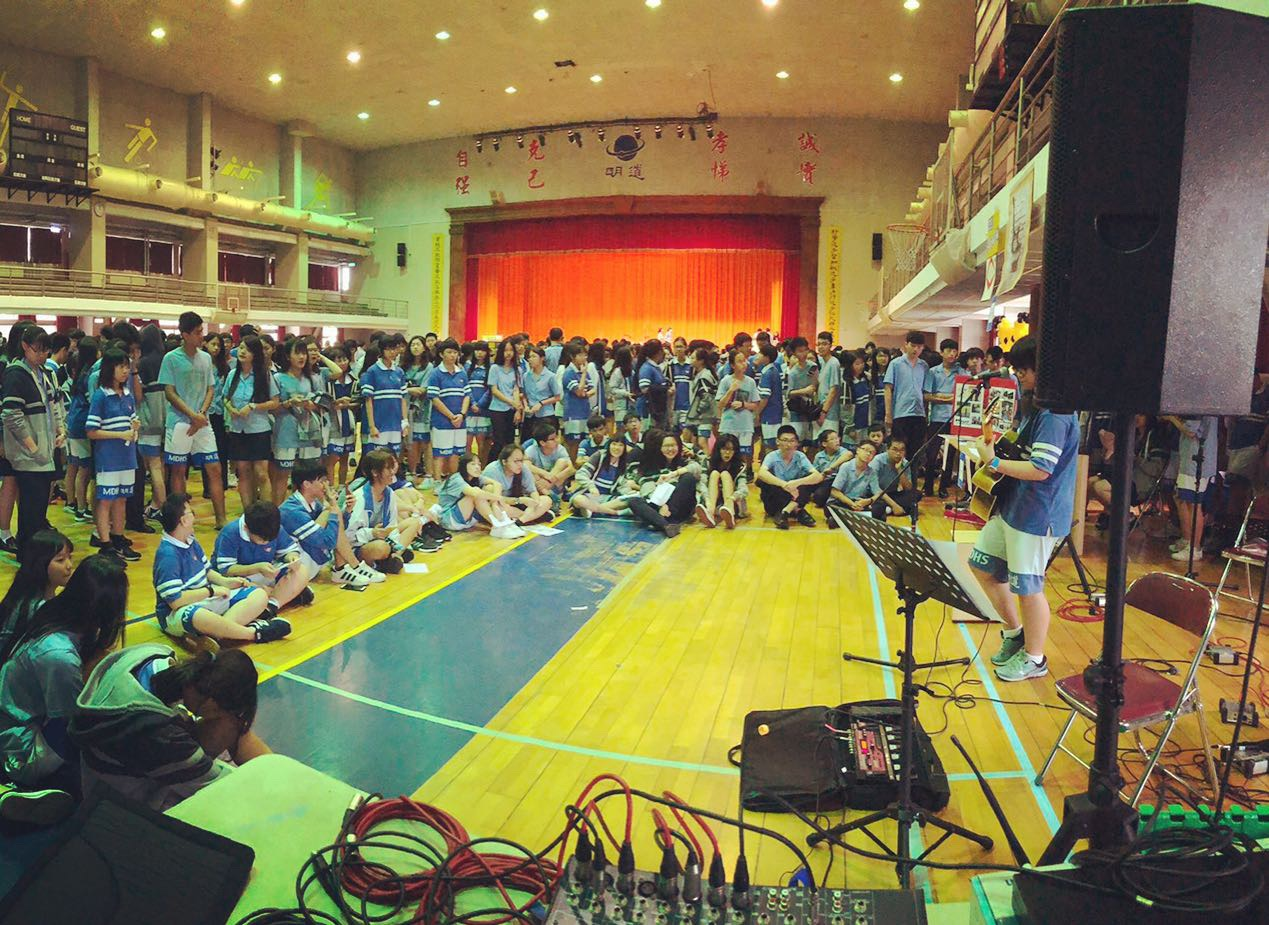
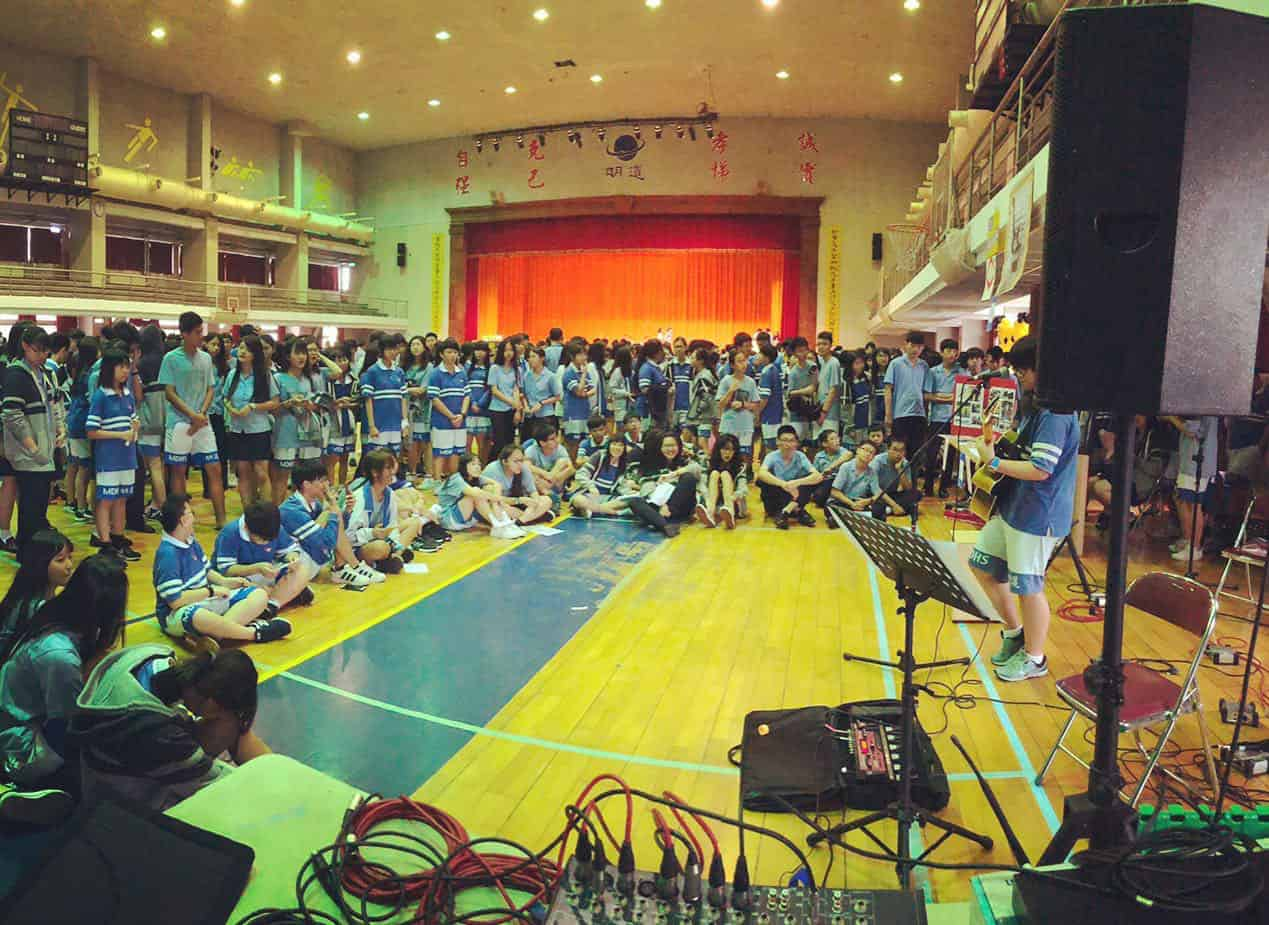
照片壓縮

diff --git a/before.html b/before.html
@@ -31,21 +31,21 @@
               <h3>經歷</h3>
           <section>
                 <p>從高一開始就擔任吉他社的教學，一個人要帶12個國中的初學者，剛開始教學的時候他們的反應都冷冷的，讓我更緊張，每次上完課我的背都全濕，講話也沒有自信、不肯定，但漸漸的熟絡起來後，上課氣氛也變的輕鬆，出席率也變的穩定。</p>
-                <img src="IMG_6875.JPG" class="img-fluid" style="display:block; margin:auto;"/>
+                <img src="IMG_6875.JPG" class="img-fluid" width="60%" height="60%" alt="我的照片" style="display:block; margin:auto;"/>
                 <p> 高二時我接下了社長的位子，全盛時期總共有113位社員，是吉他社的鼎盛時期，在擔任社長的期間，我培養了溝通技巧和組織的能力，每次開會遇到癥結點時，我總會收集其他幹部的想法並統整分析，找到一個最佳的解決方法，在爭執時，如果我是對的一方，我也會積極維護我的想法，我始終相信熱烈的爭辯，不信無聲的和諧。在社團期間也參與許多次演出，我不僅是表演者也是工作人員，不僅是總召還是機動組組頭，整場演出都在跑來跑去，忙東忙西，因此都沒有機會好好欣賞其他人的演出。</p>
-                <img src="AA4DE215-363E-481D-B7A0-54FCE5D4FA8C.JPG" class="img-fluid" style="display:block; margin:auto;"/>
+                <img src="AA4DE215-363E-481D-B7A0-54FCE5D4FA8C.jpg" class="img-fluid" width="60%" height="60%" alt="我的照片" style="display:block; margin:auto;"/>
                 <p>在當社長的同時，我接下了班際英文話劇比賽的導演一職，那讓我雙頭燒的蠟燭燃燒的更旺，且在過程中與班上也因為劇本和選角有不小的爭執，但有了這次當導演的經驗，讓我在之後的影片製作執行上更為順利。</p>
-                <img src="IMG_3437.jpg" class="img-fluid" style="display:block; margin:auto;"/>
+                <img src="IMG_3437.jpg" class="img-fluid" width="60%" height="60%" alt="我的照片" style="display:block; margin:auto;"/>
                 <p> 我是一個熱愛舞台的人，曾經一年在校內外接了18場大大小小的表演，不過表演的時間也常常撞到補習時間，因此與家人常常會因為該不該接這場表演而吵架，但我在表演結束後都有去將缺的課補齊。其中有一場表演讓我十分灰心，因為控台的一些疏失，還有我自己的一點失誤，表演結束後收到很多負評，那段時間本來打算後面的表演都不接了，轉變的契機是我無意間看到了一場表演，那個樂團的主唱在台上十分的享受，重點是看起來非常的開心，他喚起了我的初衷，上台不是為了名利，而是在充分準備的前提下，展現在音樂中最開心的那個自己。</p>
-                <img src="E223349C-0805-4C8A-8E13-CF2B8371618B.JPG" class="img-fluid" style="display:block; margin:auto;"/>
+                <img src="E223349C-0805-4C8A-8E13-CF2B8371618B.jpg" class="img-fluid" width="40%" height="40%" alt="我的照片" style="display:block; margin:auto;"/>
                 <p>錄音工程在我生活中也佔了很大的一個部分，國中開始自學，這一路上也遇到了很多的貴人，不求回報的教導我，給我練習的機會，第一個教我錄音混音的就是我現在工作室的老闆，後來他也將我介紹給他的老師，讓我有機會去更大更有規模的錄音室觀摩實習，近期也感謝櫻花原創音樂團隊合作的錄音室的老闆放心把錄音室交給我們自己操作，讓我完整體驗到一個錄音師工作一整天下來有多號精神與體力。</p>
                 <p> 還記得我的第一套簡易錄音設備是我省著早餐錢，一點一滴的存下來的，剛開始我學習和成長的十分緩慢，直到去年的畢業季，加上之後的疫情期間，因為錄音設備的更新，我希望自己不要成為設備用的非常好，能力卻跟不上設備等級的人，也因為我很不喜歡腦中有許多畫面想法，但卻因為自己的技術問題而無法呈現出來，因此我努力精進自己的功力，透過在那段期間我跟著團隊總製作做案子，還有自己的練習，我的能力比前幾年突飛猛進，但離老師們還是有很大一段距離，還要再接再力。暑假期間，我的團隊每年都會辦大合唱，但因為去年疫情大家沒法相聚，我們變用線上的方式，大家自己在家裡用手機錄製，再藉由製作團隊來處理，我平均一天要做8個小時的人聲處理，扎扎實實的訓練了一個月，讓我人聲處理的速度變快了許多。</p>
                 <p>在能力比較穩定成長後，我透過工作室的老闆開始接一些學校或者簡單的案子，直到現在我已經是能獨當一面的錄音師，但混音還是需要老師的指點。</p>
-                <img src="line_1516806398297.JPG" class="img-fluid" style="display:block; margin:auto;"/>
+                <img src="line_1516806398297.jpg" class="img-fluid" width="60%" height="60%" alt="我的照片" style="display:block; margin:auto;"/>
                 <p>上面有提到我的團隊，嚴格來說應該是「我所在」的團隊，因為我不是老闆，只是製作人之一，我們團隊叫做「櫻花原創音樂」，是因為團隊第一首歌「櫻花樹下」而命名，櫻花的花語是「熱烈的生命和永不放棄的追尋」，我們希望用溫暖的歌帶給大家力量和希望，讓聽眾能將自身故事帶入，擁有不同的感觸，也獲得不同的想法和面對的勇氣。</p>
-                <img src="IMG_3305.JPG" class="img-fluid" style="display:block; margin:auto;"/>
+                <img src="IMG_3305.jpg" class="img-fluid" width="60%" height="60%" alt="我的照片" style="display:block; margin:auto;"/>
                 <p> 團隊中的成員很多都是在比賽中認識的，我也不例外，在2019年的校內歌唱比賽，我遇到了櫻花原創，幸運的我獲得了勝利，但在與他們相處的過程中我發現，一群志同道合的人一起完成一件事的過程本身，比結果來的更為重要，後來我家入了櫻花原創，成為第二代的成員。</p>
-                <img src="IMG_7592.jpg" class="img-fluid" style="display:block; margin:auto;"/>
+                <img src="IMG_7592.jpg" class="img-fluid" width="60%" height="60%" alt="我的照片" style="display:block; margin:auto;"/>
                 <p class="special">在團隊頻道中我發表的第一首詞曲創作歌曲叫《以夢為名的光芒》，內容寫的是在成長的路上我們就像在黑暗中摸索，而身邊的朋友老師家人就像一道道的光照入黑暗中，但哪一道光芒才能真正但我走出黑暗，而其中一句歌詞-「迷戀舞台此生離不開，請原諒我叛逆的期待」也是我對於生活的吶喊，希望有一天我能不負期望，成為一個令父母驕傲的孩子。</p>
             </section>
               </main>

diff --git a/intersted.html b/intersted.html
@@ -27,17 +27,17 @@
         <li class="col"><a href="future.html" class="heigh">未來方向</a></li>
         </ul>
       </nav>  
-      <main>
+      <main class="special">
           <h3>個性&興趣&專長</h3>
                <section>
                 <p>我的個性外向，善於溝通，有好勝心，能察覺身邊人的小情緒，也就是所謂的「共情」能力，我還有很強的想像力和創造力。喜歡看天空，看各種星星太陽月亮。</p>
                 <p>我有三個秘密武器，讓我有源源不絕的創作靈感，分別是「靈敏的耳朵」、「多愁善感的心」和「天馬行空的想法」。</p>
-                <p>4歲時家人便送我去學習鋼琴，從那時開始，我跟音樂結下了不解之緣，成長的路上，我陸續學習了鐵木琴、吉他、Bass和爵士鼓，使我成為了跨節奏組及旋律組的樂手。</p>
-                <img src="collage3.png" class="img-fluid" style="display:block; margin:auto;"/>
+                <p>4歲時家人便送我去學習鋼琴，從那時開始，我跟音樂結下了不解之緣，成長的路上，我陸續學習鐵木琴、吉他、Bass和爵士鼓，使我成為跨節奏組及旋律組的樂手。</p>
+                <img src="collage3.jpg" class="img-fluid" width="70%" height="70%" alt="我的照片" style="display:block; margin:auto;"/>
                 <p>從國小開始，我對寫作就十分擅長，手動的速度總趕不上腦袋運轉的速度，我也十分享受寫作時那種沉靜忘我的感覺，我的寫作模式無非是以故事呈現，基本上都是以自身故事發想，因為我認為只有親身體驗過的才能真正稱作為感受，世界上沒有真的感同身受。寫作對我來說不只是考試項目，而是一個將身邊人的小情緒與周遭其他人事物結合後，在腦中浮現的畫面記錄下來的媒介。</p>
                 <p>音樂和寫作成了我生命中不可或缺的兩個元素，國中時在吉他社接觸到了學長的原創歌曲，讓我體會到寫歌是一個融合了兩者的創作方式，而且入門其實沒有想像的困難，從此開啟了我的詞曲創作之路。有了幾首小品後，我尋思著用什麼方式記錄下它們，上網一番搜索後，開始學著使用ipad中內建的Garageband練習錄音，剛開始什麼都不懂，不懂的剪輯，不懂得分軌、效果器和比例的調整，只能一遍遍的從頭再從頭，卻也練就了我收音遠近和One take完成的能力，隨著時間的推進，我的功力也逐漸進步，現在不僅是使用電腦專業錄音軟體Logic pro來錄音，家裡也架設了一個小型宅錄的錄音室，不僅錄製自己的歌曲，也幫助許多朋友記錄下他們的作品。</p>
                 <img src="%E6%88%AA%E5%9C%96%202022-05-17%20%E4%B8%8A%E5%8D%881.46.31.png"
-                     class="img-fluid" style="display:block; margin:auto;"/>
+                     class="img-fluid" width="70%" height="70%" alt="我的照片" style="display:block; margin:auto;"/>
                 <p>靈敏的耳朵，使我聽到不僅音樂的細節，更聽到人心的歡喜傷悲，社會中的起起落落，而多熟善感的心讓我成為朋友們傾訴的好對象，也讓我聽到更多人生不同的故事，彷彿一個影子跟在他們背後，走過他們走過的，看他們看過的。一切加上一點天馬行空變成為了我創作源源不絕的靈感，紀錄著生命每一刻的笑容與淚水。</p>
             </section>
           </main>

diff --git a/family.html b/family.html
@@ -33,15 +33,16 @@
               <h3>家庭&成長過程</h3>
               <section>
               <p>我叫黃郁珊，來自台中一個普通再不過的小康家庭，父母晚婚所以我是家裡的獨生女，從小就在父母全心全意的愛下長大，但也因為是家裡的獨苗，在一人獨享所有愛和資源的同時也承受了所有望子成龍、望女成鳳的壓力。</p>
-              <img src="IMG_3651.JPG" class="img-fluid" style="display:block; margin:auto;"/>
+              <img src="IMG_3651.JPG" class="img-fluid" width="70%" height="70%" alt="我的照片" style="display:block; margin:auto;"/>
               <p>國小時放學就要去各式各樣的補習班和才藝班，為的是考上私立國中，進了私立國中後，雖然身在數語資優班，但其實我的數學沒有其他人那麼優秀，因此常常處於落後甚至墊底，我開始對讀書厭煩，在那段時間，我把所有的重心都寄託在社團上，想當然爾，就是個惡性循環，我的成績每況愈下，但我漸漸感受到只有音樂能讓我真正的快樂。</p>
               <p>雖然不是什麼音樂世家，但父母十分喜歡唱歌，我也就在耳濡目染下長大，後來父母送我去學鋼琴，在多次的公演後，我發現我深深的愛上舞台，在逐漸狹窄的路上我努力練習，把握上台的每個機會。</p>
               <p>家裡支持我把藝術當興趣，但是希望我過個平凡順遂的人生，高中就讀的是三類組，因此家裡希望我將來考個藥師或公務員，但我流著不羈愛自由的血液，一心想往演藝事業發展，在與家人協調後，達成課業與表演兼顧的共識，也算是為自己留條後路。但在蠟燭多頭燒的狀況下，我還是讓功課方面疏漏了，家裡也因此鬧的不愉快，冷戰了好一陣子，長輩說這是叛逆期對世界的反抗，但我認為這是對所嚮往的還有所期待，願意放手一搏。</p>
-              <img src="IMG_4177.JPG" class="img-fluid" style="display:block; margin:auto;"/>
+              <img src="IMG_4177-2.jpg" class="img-fluid" width="70%" height="70%" alt="我的照片" style="display:block; margin:auto;"/>
               <p>最終，一切的結果都反映在學測成績上，我考出了自己的新低，幾乎所有三類科系都無法填報，那時我心想，或許這是老天給我的一個機會，去做我真正最喜歡的，我喜歡生物，但我最最喜歡的一直都是音樂，是舞台，是藝術。也就這樣兜兜轉轉，一顆原子彈將戰爭的殘垣斷壁夷為平地，一切從頭開始，復原期總是又痛又漫長，但我相信一切都會慢慢變好的，而現在的我微笑著應證了這句話，都會好的。</p>
             </section>
               </div>
      </main>  
         <script src="https://cdn.jsdelivr.net/npm/bootstrap@5.1.3/dist/js/bootstrap.bundle.min.js" integrity="sha384-ka7Sk0Gln4gmtz2MlQnikT1wXgYsOg+OMhuP+IlRH9sENBO0LRn5q+8nbTov4+1p" crossorigin="anonymous"></script>
+        </div>
     </body>
 </html>

diff --git a/test-2.html b/test-2.html
@@ -1,0 +1,58 @@
+<!DOCTYPE html>
+<html>
+    <head>
+        <meta charset="utf-8">
+        <meta name="viewport" content="width=device-width, initial-scale=1">
+         <!-- Bootstrap CSS -->
+        <link href="https://cdn.jsdelivr.net/npm/bootstrap@5.1.3/dist/css/bootstrap.min.css" rel="stylesheet">
+        <link rel="stylesheet" href="" type="text/css">
+        <title>自我介紹 </title>
+        <script src="po.js"> </script>
+        <link rel="preconnect" href="https://fonts.googleapis.com"> 
+        <link rel="preconnect" href="https://fonts.gstatic.com" crossorigin> 
+        <link href="https://fonts.googleapis.com/css2?family=Noto+Sans+TC:wght@300;700&display=swap" rel="stylesheet">
+    </head>
+    <header>
+        <nav class="navbar navbar-expand-lg navbar-light bg-light">
+        <div class="container-fluid">
+        <a class="navbar-brand" href="#">黃郁珊X龍夢翔</a>
+        <button class="navbar-toggler" type="button" data-bs-toggle="collapse" data-bs-target="#navbarSupportedContent" aria-controls="navbarSupportedContent" aria-expanded="false" aria-label="Toggle navigation">
+        <span class="navbar-toggler-icon"></span>
+    </button>
+    <div class="collapse navbar-collapse" id="navbarSupportedContent">
+      <ul class="navbar-nav me-auto mb-2 mb-lg-0">
+        <li class="nav-item">
+          <a class="nav-link active" aria-current="page" href="family.html">家庭</a>
+        </li>
+        <li class="nav-item">
+          <a class="nav-link" href="intersted.html">興趣</a>
+        </li>
+        <li class="nav-item dropdown">
+          <a class="nav-link dropdown-toggle" href="#" id="navbarDropdown" role="button" data-bs-toggle="dropdown" aria-expanded="false">
+            經歷
+          </a>
+          <ul class="dropdown-menu" aria-labelledby="navbarDropdown">
+            <li><a class="dropdown-item" href="before.html">社長X導演</a></li>
+            <li><a class="dropdown-item" href="before.html">錄/混音師</a></li>
+            <li><a class="dropdown-item" href="before.html">製作人</a></li>
+            <li><a class="dropdown-item" href="before.html">表演經歷</a></li>
+          </ul>
+        </li>
+        <li class="nav-item  dropdown">
+          <a class="nav-link dropdown-toggle" href="demo.html" id="navbarDropdown" role="button" data-bs-toggle="dropdown" aria-expanded="false">作品集</a>
+          <ul class="dropdown-menu" aria-labelledby="navbarDropdown">
+            <li><a class="dropdown-item" href="demo.html">個人原創</a></li>
+            <li><a class="dropdown-item" href="demo.html">個人翻唱</a></li>
+            <li><a class="dropdown-item" href="demo.html">櫻花原創音樂</a></li>
+            <li><a class="dropdown-item" href="demo.html">攝影作品</a></li>
+          </ul>
+        </li>
+      </ul>
+      <form class="d-flex">
+        <input class="form-control me-2" type="search" placeholder="Search" aria-label="Search">
+        <button class="btn btn-outline-success" type="submit">Search</button>
+      </form>
+    </div>
+  </div>
+</nav>
+    </header>

diff --git a/photo.css b/photo.css
@@ -1,0 +1,128 @@
+body {
+  display: flex;
+  justify-content: center;
+  align-items: center;
+  min-height: 100vh;
+}
+
+ul.slides {
+  position: relative;
+  width: 600px;
+  height: 280px;
+  list-style: none;
+  margin: 0;
+  padding: 0;
+  background-color: #eee;
+  overflow: hidden;
+}
+
+li.slide {
+  margin: 0;
+  padding: 0;
+  width: inherit;
+  height: inherit;
+  position: absolute;
+  top: 0;
+  left: 0;
+  display: flex;
+  justify-content: center;
+  align-items: center;
+  font-family: Helvetica;
+  font-size: 120px;
+  color: #fff;
+  transition: .5s transform ease-in-out;
+}
+
+.slide:nth-of-type(1) {
+  background-color: #F2E205;
+}
+
+.slide:nth-of-type(2) {
+  background-color: #F25C05;
+  left: 100%;
+}
+
+.slide:nth-of-type(3) {
+  background-color: #495F8C;
+  left: 200%;
+}
+
+input[type="radio"] {
+  position: relative;
+  z-index: 100;
+  display: none;
+}
+
+.controls-visible {
+  position: absolute;
+  width: 100%;
+  bottom: 12px;
+  text-align: center;
+}
+
+.controls-visible label {
+  display: inline-block;
+  width: 10px;
+  height: 10px;
+  background-color: #fff;
+  border-radius: 50%;
+  margin: 0 3px;
+  border: 2px solid #fff;
+}
+
+.slides input[type="radio"]:nth-of-type(1):checked ~ .controls-visible label:nth-of-type(1) {
+  background-color: #333;
+}
+
+.slides input[type="radio"]:nth-of-type(2):checked ~ .controls-visible label:nth-of-type(2) {
+  background-color: #333;
+}
+
+.slides input[type="radio"]:nth-of-type(3):checked ~ .controls-visible label:nth-of-type(3) {
+  background-color: #333;
+}
+
+.slides input[type="radio"]:nth-of-type(1):checked ~ .slide {
+  transform: translatex(0%);
+}
+
+.slides input[type="radio"]:nth-of-type(2):checked ~ .slide {
+  transform: translatex(-100%);
+}
+
+.slides input[type="radio"]:nth-of-type(3):checked ~ .slide {
+  transform: translatex(-200%);
+}
+
+
+/* Left/Right Button Classes Below */
+
+.navigator {
+  position: absolute;
+  top: 50%;
+  transform: translatey(-50%);
+  width: 100%;
+  z-index: 100;
+  padding: 0 20px;
+  display: flex;
+  justify-content: space-between;
+  box-sizing: border-box;
+  display: none;
+}
+
+.navigator i {
+  font-size: 32px;
+  color #333;
+}
+
+.slides input[type="radio"]:nth-of-type(1):checked ~ .navigator:nth-of-type(1) {
+  display: flex;
+}
+
+.slides input[type="radio"]:nth-of-type(2):checked ~ .navigator:nth-of-type(2) {
+  display: flex;
+}
+
+.slides input[type="radio"]:nth-of-type(3):checked ~ .navigator:nth-of-type(3) {
+  display: flex;
+}

diff --git a/test3.html b/test3.html
@@ -1,0 +1,51 @@
+<!DOCTYPE html>
+<html>
+    <head>
+        <meta charset="utf-8">
+        <meta name="viewport" content="width=device-width, initial-scale=1">
+         <!-- Bootstrap CSS -->
+        <link href="https://cdn.jsdelivr.net/npm/bootstrap@5.1.3/dist/css/bootstrap.min.css" rel="stylesheet">
+        <link rel="stylesheet" href="st.css" type="text/css">
+        <title>test</title>
+        
+        <link rel="preconnect" href="https://fonts.googleapis.com"> 
+        <link rel="preconnect" href="https://fonts.gstatic.com" crossorigin> 
+        <link href="https://fonts.googleapis.com/css2?family=Noto+Sans+TC:wght@300;700&display=swap" rel="stylesheet">
+    </head>
+
+<nav class="navbar navbar-expand-lg navbar-light bg-light">
+  <div class="container-fluid">
+    <a class="navbar-brand" href="#">Navbar</a>
+    <button class="navbar-toggler" type="button" data-bs-toggle="collapse" data-bs-target="#navbarSupportedContent" aria-controls="navbarSupportedContent" aria-expanded="false" aria-label="Toggle navigation">
+      <span class="navbar-toggler-icon"></span>
+    </button>
+    <div class="collapse navbar-collapse" id="navbarSupportedContent">
+      <ul class="navbar-nav me-auto mb-2 mb-lg-0">
+        <li class="nav-item">
+          <a class="nav-link active" aria-current="page" href="#">Home</a>
+        </li>
+        <li class="nav-item">
+          <a class="nav-link" href="#">Link</a>
+        </li>
+        <li class="nav-item dropdown">
+          <a class="nav-link dropdown-toggle" href="#" id="navbarDropdown" role="button" data-bs-toggle="dropdown" aria-expanded="false">
+            Dropdown
+          </a>
+          <ul class="dropdown-menu" aria-labelledby="navbarDropdown">
+            <li><a class="dropdown-item" href="#">Action</a></li>
+            <li><a class="dropdown-item" href="#">Another action</a></li>
+            <li><hr class="dropdown-divider"></li>
+            <li><a class="dropdown-item" href="#">Something else here</a></li>
+          </ul>
+        </li>
+        <li class="nav-item">
+          <a class="nav-link disabled" href="#" tabindex="-1" aria-disabled="true">Disabled</a>
+        </li>
+      </ul>
+      <form class="d-flex">
+        <input class="form-control me-2" type="search" placeholder="Search" aria-label="Search">
+        <button class="btn btn-outline-success" type="submit">Search</button>
+      </form>
+    </div>
+  </div>
+</nav>

diff --git a/future.html b/future.html
@@ -31,7 +31,7 @@
               <h3>經歷</h3>
           <section>
                 <p>未來如果可以，我最希望的當然是能繼續站在舞台上表演，不管是主唱、樂手我都可以，但畢竟能站在台上養活自己的人並不多，因此我的希望我只要離舞台越近越好，收音師、錄音師、攝影師、行政工作人員我都有意願，我只希望能一直在舞台附近徘徊，我相信這是我最理想的生活方式，不管別人怎麼說這行辛苦，此生的夢想我自己去闖，未完的樂章自己去譜。</p>
-                <img src="IMG_0180.JPG" class="img-fluid" style="display:block; margin:auto;"/ >
+                <img src="IMG_0180-2.jpg"class="img-fluid" width="50%" height="50%" alt="我的照片" style="display:block; margin:auto;"/>
             </section>
               </main>
           <script src="https://cdn.jsdelivr.net/npm/bootstrap@5.1.3/dist/js/bootstrap.bundle.min.js" integrity="sha384-ka7Sk0Gln4gmtz2MlQnikT1wXgYsOg+OMhuP+IlRH9sENBO0LRn5q+8nbTov4+1p" crossorigin="anonymous"></script>

diff --git a/index.html b/index.html
@@ -15,7 +15,7 @@
     <body>
       <div class="container-fluid">
         <header>
-        <h1>資傳一甲 黃郁珊 自我介紹</h1>
+        <h1>黃郁珊x龍夢翔＿＿自我介紹</h1>
         </header>
         <nav>
         <ul class="row">
@@ -24,14 +24,13 @@
         <li class="col"><a href="intersted.html">個性&興趣&專長</a></li>
         <li class="col"><a class="heigh" href="before.html">經歷</a></li>
         <li class="col"><a href="demo.html" class="heigh">作品集</a></li>
-        <li class="col"><a href="future.html" class="heigh">未來方向</a></li>
+        <li class="col"><a href="future.html" class="heigh">未來方向</a></li>   
         </ul>
-      </nav>
-          <main>
-              <img src="collage2.png" class="img-fluid" alt="我的照片">
-          </main>
+          </nav>
         </div>
     </body>
+    <main>
+              <img src="collage2.jpg" class="img-fluid" width="70%" height="70%" alt="我的照片" style="display:block; margin:auto;"/>
+          </main>
 </html>
           
-     

diff --git a/test.html b/test.html
@@ -17,6 +17,7 @@
        <ol class="carousel-indicators">
            <li data-bs-target="#mycarousel" data-bs-slide-to="0" class="active"></li>
            <li data-bs-target="#mycarousel" data-bs-slide-to="1" class="active">
+           <li data-bs-target="#mycarousel" data-bs-slide-to="2" class="active"></li> 
          </ol>
       <div class="carousel-inner">
           <div class="carousel-item active">
@@ -25,6 +26,10 @@
           </div>
            <div class="carousel-item">
               <img src="DSC07579.jpg" class="d-block w-100" alt="側拍">
+              <div class="carousel-caption d-none d-md-block">
+          </div>
+          <div class="carousel-item">
+              <img src="2022-1-12%E4%B8%8A%E5%8D%8810.26%E7%9A%84%E5%BD%B1%E5%83%8F.jpg" class="d-block w-100" alt="側拍">
               <div class="carousel-caption d-none d-md-block">
           </div>
          </div>
@@ -39,3 +44,4 @@
           <span class="visually-hidden">Next</span></a>
         </div>
     </body>
+</html>
